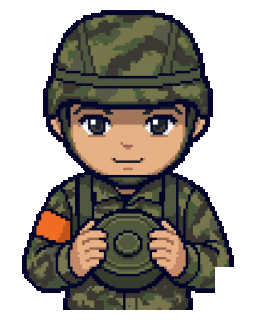
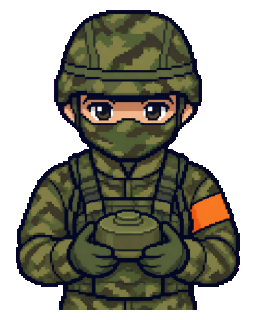
art(A-104): 새 캐릭터 4종 그림 12장(대기·공격·카드) 처리 반영, 카드 지뢰설치병 재제작
Claude-Session: https://claude.ai/code/session_01TFLk2FmAm8QFC3pj3rfjgn

diff --git a/docs/tickets/A-104-new-characters-art.md b/docs/tickets/A-104-new-characters-art.md
@@ -162,4 +162,15 @@ Portrait card illustration in exactly the same pixel art style as the attached l
 
 ## 진행 기록
 
-- (아직 없음)
+- [x] 2026-10-24 Claude: 그림 16장 완료·반영. 브랜치: `kidariseok/m6-chars`
+  - 만든 도구: ChatGPT(유료, Thinking effort `High`). 레퍼런스는 `01-soldier-motion`·`12-miner-sheet`·`03-weapons`, Argon으로 만든 고품질 샘플, 직전 캐릭터의 승인된 시트(레이아웃 예시), 카드는 `08-big-character`를 함께 첨부했다. 사용량을 아끼려고 Gemini 대신 썼고, 품질은 Argon과 견줄 만했다.
+  - 저장: 시트 4장 `art/ref/14~17-*-sheet.png`(gitignore), 나머지 12장은 `art/inbox/`에 넣은 뒤 `node scripts/assets.mjs`로 처리했다.
+  - 처리 결과: 12개 키 모두 성공(대기 2프레임·공격 3프레임·카드 1), `npm run assets:check`(47키) 통과. 수동 정리 없이 프레임이 자동으로 나뉘었다.
+  - 확인: `?scene=gallery`에서 새 에셋이 보인다(의무병 대기·공격 확인).
+  - 원본 해상도 1672×941(ChatGPT). Argon(2752×1536)보다 낮지만 게임에서 약 96px로 줄이므로 문제 없다.
+  - 남은 이슈
+    - 카드 비율은 비율 선택기가 없어 프롬프트로 세로(3:4)를 요청했다(티켓의 4:5와 약간 다름). 처리 도구가 256×320으로 맞춘다.
+    - 통신병은 안테나가 높이에 포함돼 몸이 다른 캐릭터보다 작게 보인다(배율 0.121). 크기가 거슬리면 `meta.json`으로 조정하거나 다시 뽑는다.
+    - 박격포병은 쭈그려 앉은 자세라 다른 캐릭터와 키 차이가 난다(의도된 자세).
+    - 게임 전투 화면(`?scene=battle`)에서의 크기·배치는 아직 확인하지 않았다.
+  - 다음: 전투 화면에서 크기를 보고, 거슬리는 장만 다시 뽑기
